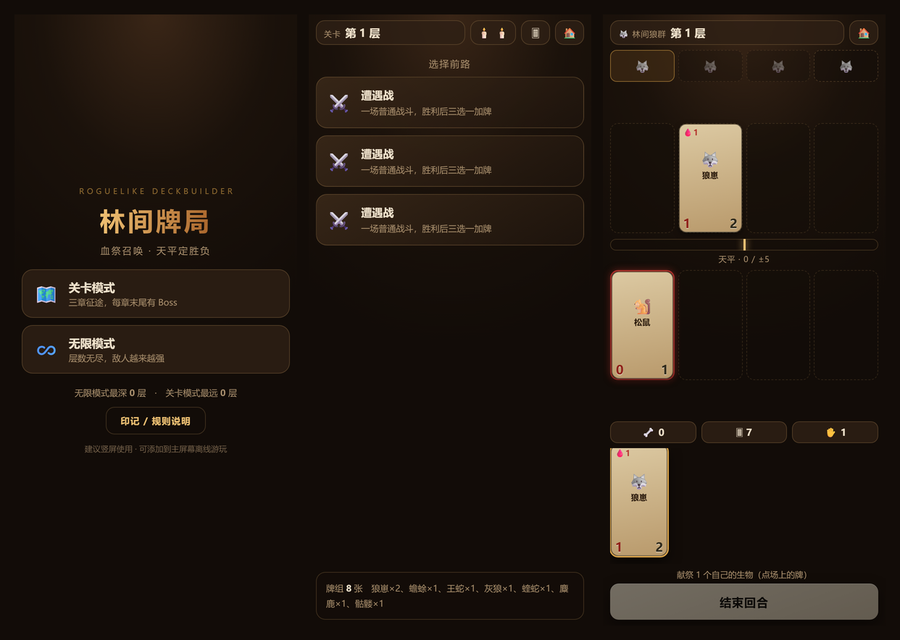
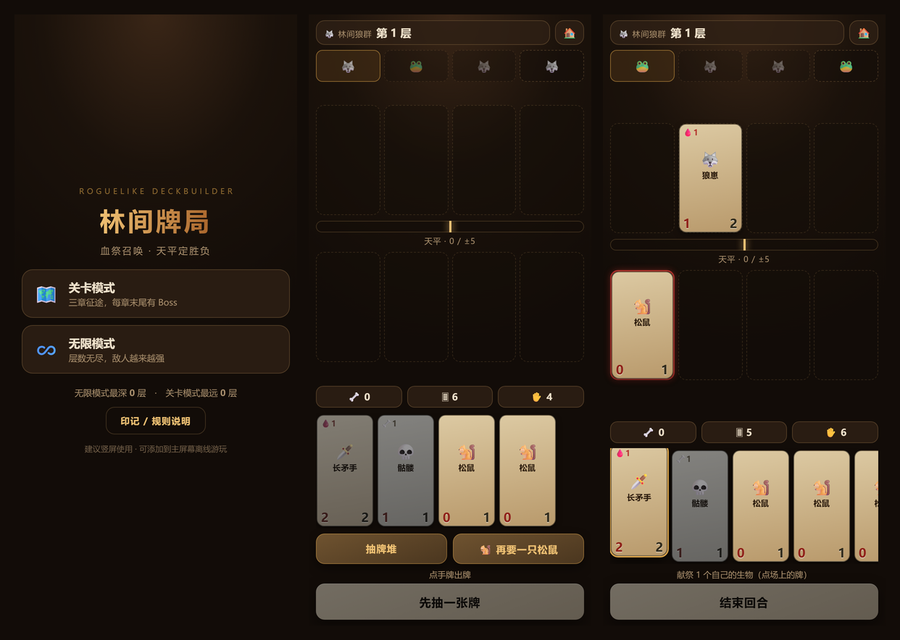
fix: 开局发手牌 + 大幅降低 Boss 难度
玩家反馈两件事：进对局没有初始手牌、Boss 太难。逐条查了数值和逐回合日志：

初始手牌
- 原样照搬了「空手开局、每回合抽一张」，但手机上第一回合几乎无事可做，
  而且血祭牌没有祭品根本打不出来
- 现在开局发 3 张（2 张牌库 + 1 只松鼠），并且每回合白送 1 只松鼠

Boss 难度（原来第一章 Boss 就站 5/9 灰熊，新手最大才 3/2）
- 数值成长大幅放缓，Boss 改用「血厚」而不是「攻高」：第一章是 3/4 灰狼
- Boss 卡池移除「空袭」——无视阻挡直击天平，等于无解
- 新增敌人站位上限（1-4 层 2 张 / 5-9 层 3 张），敌人出牌免费而玩家付费，
  不设上限就是节奏压制
- 敌人牌池按层数解锁，第 1 层不再可能撞到后期牌池
- 修正无限模式里 Boss 反而比同层普通敌人弱的问题
- 新增玩家专属强牌：长矛手 / 熊崽 / 女猎手

其他
- 慢网络下 HTML 已绘制但 game.js 未到时，按钮置灰屏蔽点击，避免点了没反应

diff --git a/game.js b/game.js
@@ -38,32 +38,45 @@
     spider: { name: '毒蛛', emoji: '🕷', tribe: 'insect', blood: 2, atk: 1, hp: 4, sigils: ['poison'] },
     grizzly: { name: '灰熊', emoji: '🐻', tribe: 'beast', blood: 3, atk: 4, hp: 6, sigils: [] },
     hawk: { name: '苍鹰', emoji: '🦅', tribe: 'avian', blood: 3, atk: 3, hp: 3, sigils: ['airborne'] },
+    huntress: { name: '女猎手', emoji: '🏹', tribe: 'avian', blood: 2, atk: 2, hp: 2, sigils: ['airborne'] },
+    spearman: { name: '长矛手', emoji: '🗡', tribe: 'beast', blood: 1, atk: 2, hp: 2, sigils: [] },
+    bearcub: { name: '熊崽', emoji: '🐻', tribe: 'beast', blood: 2, atk: 3, hp: 3, sigils: [] },
     skeleton: { name: '骷髅', emoji: '💀', tribe: 'undead', bones: 1, atk: 1, hp: 1, sigils: [] },
     bonedog: { name: '骨犬', emoji: '🐕', tribe: 'undead', bones: 3, atk: 2, hp: 3, sigils: [] },
     scarab: { name: '圣甲虫', emoji: '🪲', tribe: 'insect', bones: 3, atk: 1, hp: 5, sigils: ['grow'] },
-    gargoyle: { name: '石像鬼', emoji: '🗿', tribe: 'undead', bones: 4, atk: 1, hp: 5, sigils: ['stone'] },
+    gargoyle: { name: '石像鬼', emoji: '🗿', tribe: 'undead', bones: 4, atk: 1, hp: 4, sigils: ['stone'] },
     banshee: { name: '女妖', emoji: '👻', tribe: 'undead', bones: 4, atk: 2, hp: 2, sigils: ['airborne'] },
     lich: { name: '巫妖', emoji: '🧙', tribe: 'undead', bones: 6, atk: 3, hp: 4, sigils: ['draw'] },
   };
 
-  const STARTER = ['wolfcub', 'wolfcub', 'toad', 'viper', 'wolf', 'adder', 'elk', 'skeleton'];
+  // 玩家的牌池刻意强于敌人：敌人出牌是免费的，玩家每张血祭牌都要拆自己的场面，
+  // 不给玩家一点身材优势，节奏永远被压
+  const STARTER = ['spearman', 'wolfcub', 'wolfcub', 'toad', 'viper', 'wolf', 'elk', 'skeleton'];
 
-  const COMMON_POOL = ['wolfcub', 'toad', 'viper', 'wolf', 'adder', 'elk', 'mantis', 'raven', 'skeleton', 'bonedog', 'goat', 'spider'];
-  const RARE_POOL = ['grizzly', 'hawk', 'gargoyle', 'banshee', 'lich', 'scarab'];
+  const COMMON_POOL = ['spearman', 'spearman', 'wolfcub', 'toad', 'viper', 'wolf', 'adder', 'elk',
+    'mantis', 'raven', 'skeleton', 'bonedog', 'goat', 'spider', 'bearcub'];
+  const RARE_POOL = ['grizzly', 'hawk', 'gargoyle', 'banshee', 'lich', 'scarab', 'bearcub', 'huntress'];
 
+  // power 越大越强；按层数解锁，避免第 1 层就撞上后期牌池
+  // 注意：一个卡池里不能塞太多「空袭」——空袭无视阻挡直击天平，等于没有解
   const ENEMIES = [
-    { name: '林间狼群', emoji: '🐺', pool: ['wolfcub', 'wolfcub', 'wolf'], pattern: 'block' },
-    { name: '荒废墓园', emoji: '💀', pool: ['skeleton', 'skeleton', 'bonedog'], pattern: 'wide' },
-    { name: '瘴气毒沼', emoji: '🐍', pool: ['adder', 'toad', 'adder'], pattern: 'block' },
-    { name: '断崖鸦群', emoji: '🦅', pool: ['raven', 'raven', 'hawk'], pattern: 'wide' },
-    { name: '地下虫巢', emoji: '🕷', pool: ['mantis', 'spider', 'scarab'], pattern: 'block' },
-    { name: '空心林地', emoji: '👻', pool: ['banshee', 'gargoyle', 'skeleton'], pattern: 'wide' },
+    { name: '林间狼群', emoji: '🐺', pool: ['wolfcub', 'wolfcub', 'toad'], pattern: 'block', power: 1 },
+    { name: '荒废墓园', emoji: '💀', pool: ['skeleton', 'skeleton', 'bonedog'], pattern: 'wide', power: 1 },
+    { name: '瘴气毒沼', emoji: '🐍', pool: ['adder', 'toad', 'adder'], pattern: 'block', power: 2 },
+    { name: '地下虫巢', emoji: '🕷', pool: ['mantis', 'spider', 'scarab'], pattern: 'block', power: 3 },
+    { name: '断崖兽群', emoji: '🦅', pool: ['raven', 'wolfcub', 'toad'], pattern: 'wide', power: 3 },
+    { name: '空心林地', emoji: '👻', pool: ['banshee', 'gargoyle', 'skeleton'], pattern: 'wide', power: 4 },
+    { name: '狼群首领', emoji: '🐺', pool: ['wolf', 'wolf', 'grizzly'], pattern: 'block', power: 5 },
   ];
 
   const BOSSES = [
-    { name: '守林人', emoji: '🪓', pool: ['wolf', 'wolf', 'grizzly', 'wolf'], pattern: 'block', bonus: { atk: 1, hp: 2 } },
-    { name: '沼泽之主', emoji: '🐊', pool: ['spider', 'adder', 'grizzly', 'adder'], pattern: 'block', bonus: { atk: 1, hp: 3 } },
-    { name: '白骨君王', emoji: '☠', pool: ['bonedog', 'banshee', 'lich', 'gargoyle'], pattern: 'wide', bonus: { atk: 2, hp: 3 } },
+    // Boss 的强度靠「牌池构成」而不是堆数值——之前给 Boss 加出 5/9 的灰熊，
+    // 新手卡组最大才 3/2，根本啃不动；卡池里也绝不能有空袭（无视阻挡 = 无解）
+    // Boss 用「血厚」而不是「攻高」制造压力：攻高会一回合把玩家打穿，
+    // 血厚只是难啃，玩家还能靠阻挡和换血周旋
+    { name: '守林人', emoji: '🪓', pool: ['wolf', 'wolfcub', 'wolf'], pattern: 'block', bonus: { atk: 0, hp: 2 } },
+    { name: '沼泽之主', emoji: '🐊', pool: ['adder', 'toad', 'adder'], pattern: 'block', bonus: { atk: 1, hp: 2 } },
+    { name: '白骨君王', emoji: '☠', pool: ['bonedog', 'lich', 'gargoyle'], pattern: 'wide', bonus: { atk: 1, hp: 2 } },
   ];
 
   const NODES = {
@@ -261,22 +274,33 @@
     return BOSSES[Math.min(run.chapter - 1, BOSSES.length - 1)];
   }
 
+  // 按层数解锁敌人强度：第 1 层只出最弱的牌池，越往后越凶
+  function pickEnemy() {
+    const cap = 1 + run.floor / 2;
+    const pool = ENEMIES.filter((e) => e.power <= cap);
+    return pick(pool.length ? pool : [ENEMIES[0]]);
+  }
+
   function isBossFloor() {
     if (run.mode === 'endless') return run.floor % 5 === 0;
     return run.step >= CHAPTER_STEPS[Math.min(run.chapter - 1, CHAPTER_STEPS.length - 1)] - 1;
   }
 
-  function levelFor() {
-    // 关卡模式的强度增长比无限模式温和
-    if (run.mode === 'endless') return run.floor;
-    return 1 + (run.floor - 1) * 0.4;
+  function levelFor(kind) {
+    const f = run.floor;
+    // 关卡模式下 Boss 的强度靠牌池构成，数值只缓慢成长；
+    // 否则会出现「第 4 层就站一只 5/9 灰熊、新手最大才 3/2」这种打不动的局面。
+    // 无限模式则必须跟着层数走，不然 Boss 会比同层普通敌人还弱。
+    if (kind === 'boss') return run.mode === 'endless' ? f * 0.9 : 1 + (f - 1) * 0.2;
+    const base = run.mode === 'endless' ? f : 1 + (f - 1) * 0.5;
+    return kind === 'elite' ? base + 1.5 : base;
   }
 
-  // 敌人的强度主要来自「战场压力」而不是堆数值，否则玩家会被大墙堵死
+  // 强度来自「战场压力」而不是堆数值
   function bonusFor(level) {
     return {
-      atk: Math.min(4, Math.floor((level - 1) / 3)),
-      hp: Math.min(8, Math.floor((level - 1) * 0.4)),
+      atk: Math.min(4, Math.floor((level - 1) / 2.5)),
+      hp: Math.min(8, Math.floor((level - 1) * 0.55)),
     };
   }
 
@@ -384,9 +408,9 @@
     // 战斗
     const isBoss = type === 'boss';
     const isElite = type === 'elite';
-    const level = levelFor() + (isElite ? 1.5 : 0) + (isBoss ? 1.5 : 0);
-    const base = isBoss ? bossForFloor() : pick(ENEMIES);
-    const bonus = bonusFor(level);
+    const kind = isBoss ? 'boss' : isElite ? 'elite' : 'normal';
+    const bonus = bonusFor(levelFor(kind));
+    const base = isBoss ? bossForFloor() : pickEnemy();
     if (base.bonus) {
       bonus.atk += base.bonus.atk;
       bonus.hp += base.bonus.hp;
@@ -550,10 +574,14 @@
       over: false,
     };
     showScreen('battle');
+    dealOpeningHand();
     renderBattle();          // 先渲染，否则开战弹窗背后是一块没初始化的空板
     showOverlay({
       title: foe.emoji + ' ' + foe.name,
-      text: (foe.isBoss ? '<b>Boss 战</b><br>' : '') + '把天平推向自己这边 <b>' + SCALE_MAX + '</b> 格即可获胜。<br>先手由你开始。',
+      text: (foe.isBoss ? '<b>Boss 战</b><br>' : '')
+        + '已发给你 <b>' + battle.hand.length + '</b> 张开局手牌。<br>'
+        + '每回合还会白送 <b>1 只松鼠</b>（免费的路障与祭品）。<br>'
+        + '把天平推向自己这边 <b>' + SCALE_MAX + '</b> 格即可获胜，先手由你开始。',
       buttons: [{ label: '开战', onClick: () => { hideOverlay(); startTurn(); } }],
     });
   }
@@ -566,9 +594,23 @@
   function startTurn() {
     if (battle.over) return;
     battle.turn += 1;
+    // 每回合白送一只松鼠。敌人出牌是免费的，玩家如果连路障都要靠抽牌去换，
+    // 场面一清空就会陷入「抽什么都被打死」的死亡螺旋，永远攒不出祭品。
+    if (battle.hand.length < HAND_MAX) battle.hand.push(mkCard('squirrel'));
     battle.phase = 'draw';
     battle.selected = -1;
     renderBattle();
+  }
+
+  // 开局手牌：从牌库抽 2 张 + 1 只松鼠。
+  // 原作是「空手开局、每回合抽一张」，但手机上第一回合几乎无事可做；
+  // 而且血祭牌没有祭品根本打不出来 —— 那只松鼠就是给你当第一份祭品的。
+  function dealOpeningHand() {
+    for (let i = 0; i < 2; i++) {
+      const c = drawFromDeck();
+      if (c) battle.hand.push(c);
+    }
+    battle.hand.push(mkCard('squirrel'));
   }
 
   function drawFromDeck() {
@@ -741,6 +783,21 @@
     }
   }
 
+  // 敌人出牌是免费的，而玩家每张血祭牌都要拆掉自己的场面。
+  // 不给敌人一个站位上限，它会一路铺满 4 格把玩家压死——这是节奏压制的根源。
+  function enemyLaneCap() {
+    const f = run.floor;
+    if (f <= 4) return 2;
+    if (f <= 9) return 3;
+    return LANES;
+  }
+
+  function enemyCardCount() {
+    let n = 0;
+    for (let i = 0; i < LANES; i++) if (battle.enemy[i]) n += 1;
+    return n;
+  }
+
   function chooseLane() {
     const open = [];
     for (let i = 0; i < LANES; i++) if (!battle.enemy[i]) open.push(i);
@@ -797,7 +854,7 @@
     if (battle.scale <= -SCALE_MAX) return finishBattle(false);
 
     await sleep(180);
-    const lane = chooseLane();
+    const lane = enemyCardCount() >= enemyLaneCap() ? -1 : chooseLane();
     if (lane >= 0 && battle.queue.length) {
       battle.enemy[lane] = battle.queue.shift();
       if (battle.queue.length < 4) refillQueue();
@@ -1103,6 +1160,9 @@
   function init() {
     bind();
     renderTitle();
+    // 标记就绪：CSS 会在此之前把按钮置灰并屏蔽点击。
+    // 否则慢网络下 HTML 已经绘制、game.js 还没到，用户点了按钮毫无反应。
+    app.dataset.ready = '1';
 
     if ('serviceWorker' in navigator && location.protocol.indexOf('http') === 0) {
       window.addEventListener('load', () => {

diff --git a/styles.css b/styles.css
@@ -58,6 +58,18 @@ body {
   display: flex;
 }
 
+/* JS 就绪前屏蔽交互：慢网络下 HTML 已绘制但脚本还没到，
+   此时点击按钮不会有任何反应，不如直接置灰 */
+.app:not([data-ready]) .mode,
+.app:not([data-ready]) .btn,
+.app:not([data-ready]) .node,
+.app:not([data-ready]) .card--hand,
+.app:not([data-ready]) .slot,
+.app:not([data-ready]) .icon-btn {
+  opacity: .45;
+  pointer-events: none;
+}
+
 /* ================= 通用件 ================= */
 .btn {
   border: 0;

diff --git a/index.html b/index.html
@@ -105,7 +105,7 @@
 
     <div class="drawprompt" id="drawprompt" hidden>
       <button type="button" class="btn btn--draw" id="btnDrawDeck">抽牌堆</button>
-      <button type="button" class="btn btn--draw" id="btnDrawSquirrel">🐿 松鼠堆</button>
+      <button type="button" class="btn btn--draw" id="btnDrawSquirrel">🐿 再要一只松鼠</button>
     </div>
 
     <footer class="battle-actions">

diff --git a/README.md b/README.md
@@ -29,7 +29,11 @@
 | 🦴 **骨头** | 自己的生物死亡时获得 1 根（被献祭也算），用来召唤亡灵 |
 | 免费 | 松鼠、黑山羊这类，直接下场 |
 
-**黑山羊**被献祭时提供 3 点血，是典型的"跳费"起手。**松鼠堆**是无限供应的 0/1 路障——每回合的抽牌你都可以在「抽牌堆」和「松鼠堆」之间二选一，这是每回合第一个决策。
+**开局会发 3 张手牌**（2 张来自牌库 + 1 只松鼠），而且**每回合还会白送 1 只松鼠**。
+
+松鼠是 0/1 但完全免费、无限供应——它既是挡刀的路障，也是血祭的祭品。敌人出牌是免费的，如果连路障都要靠抽牌去换，一旦场面被清空就会陷入"抽什么都被打死"的死亡螺旋，所以这里给了稳定的松鼠来源。
+
+**黑山羊**被献祭时提供 3 点血，是典型的"跳费"起手。每回合的抽牌你可以在「抽牌堆」和「再要一只松鼠」之间二选一。
 
 ## 七个印记
 
@@ -69,6 +73,16 @@
 | 🔥 淬炼 | 给一张牌 +1 攻击 / +1 生命 / 加一个印记 |
 | ✂ 遗忘 | 从牌组里移除一张牌（精简牌组很重要） |
 | 🕯 篝火 | 恢复一根蜡烛 |
+
+## 难度设计
+
+这套数值是反复调过的，几条原则：
+
+- **Boss 靠"血厚"而不是"攻高"制造压力**。攻高会一回合把玩家打穿，血厚只是难啃，还能靠阻挡和周旋。第一章 Boss 是 3/4 的灰狼，不是 5/9 的灰熊。
+- **Boss 卡池里绝不出现「空袭」**。空袭无视阻挡直击天平，一个 6/7 带空袭的 Boss 每回合白掉 6 点，玩家没有任何解法。
+- **敌人有站位上限**：第 1-4 层最多 2 张、5-9 层 3 张、之后才铺满 4 格。敌人出牌免费而玩家要付费，不设上限会形成节奏压制。
+- **敌人牌池按层数解锁**：第 1 层只会遇到最弱的牌池，不会开局就撞上后期的狼群首领。
+- **玩家的牌池刻意强于敌人**：长矛手（1 血 2/2）、熊崽（2 血 3/3）、女猎手（2 血 2/2 空袭）是玩家专属，敌人不会拿到。
 
 ## 操作
 
